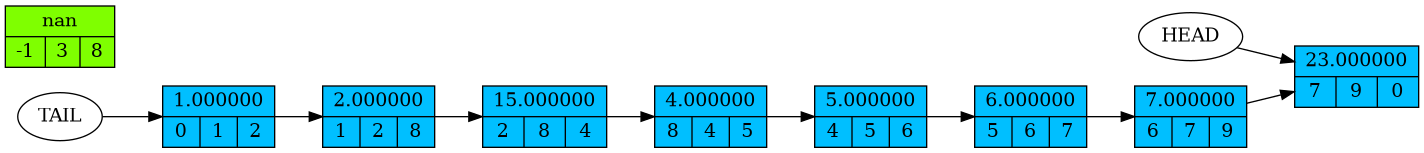
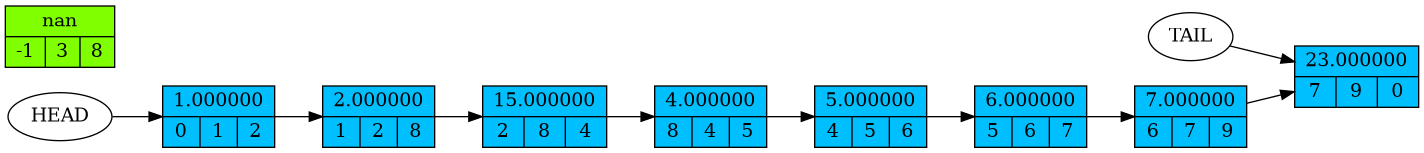
add circle

diff --git a/CPU/commands.h b/CPU/commands.h
@@ -116,6 +116,7 @@
 
 #define DO_OUT\
         printf("%lf\n", POPPED);\
+        fflush(stdout);\
         STACK_EMPTY_CHECK\
 
 
@@ -125,6 +126,20 @@
 #define DO_HLT\
         printf("Program hult on rip %d\n", RIP);\
         return 0;
+
+//-------------------------------------------------------------------------
+
+#define PIXEL(x, y) CPU_RAM[y*YSIZE + x]
+
+#define DO_SHOW                              \
+        for (int y = 0; y < YSIZE; y+=2){     \
+            for (int x = 0; x < XSIZE; x++){ \
+                if (PIXEL(x,y) == 1) printf("\x1b[8;44m@\x1b[0m");\
+                else printf("\x1b[8;40mE\x1b[0m");\
+            }                                \
+            printf("\n");                    \
+        }
+
 
 //#########################################################################
 //------------------DISASSEMBLER-------------------------------------------
@@ -188,44 +203,45 @@
 //--------------------------------COMMANDS---------------------------------
 
 
-DEF_CMD(PUSH, 0x01, 5, 1, PUSH_ARGUMENTS_CHECK(nline, arg_value), DEFAULT_ASSEMBLING_INSTRUCTION, DEFAULT_DISASSEMBLING_INSTRUCTION)
-DEF_CMD(POP, 0x02, 5, 0, POP_ARGUMENTS_CHECK(nline, arg_value), DEFAULT_ASSEMBLING_INSTRUCTION, DEFAULT_DISASSEMBLING_INSTRUCTION)
-DEF_CMD(JMP, 0x03, 1, 1, {}, JMP_ASSEMBLING_INSTRUCTION, JMP_DISASSEMBLING_INSTRUCTION)
-DEF_CMD(ADD, 0x04, 0, 0, {}, {}, {})
-DEF_CMD(SUB, 0x05, 0, 0, {}, {}, {})
-DEF_CMD(MUL, 0x06, 0, 0, {}, {}, {})
-DEF_CMD(DIV, 0x07, 0, 0, {}, {}, {})
-DEF_CMD(SIN, 0x08, 0, 0, {}, {}, {})
-DEF_CMD(COS, 0x09, 0, 0, {}, {}, {})
-DEF_CMD(SQRT, 0x0A, 0, 0, {}, {}, {})
-DEF_CMD(NEG, 0x0B, 0, 0, {}, {}, {})
-DEF_CMD(OUT, 0x0C, 0, 0, {}, {}, {})
-DEF_CMD(IN, 0x0D, 0, 0, {}, {}, {})
-DEF_CMD(DUMP, 0x0E, 0, 0, {}, {}, {})
-DEF_CMD(HLT, 0x0F, 0, 0, {}, {}, {})
-DEF_CMD(JA, 0x10, 1, 1, {}, JMP_ASSEMBLING_INSTRUCTION, JMP_DISASSEMBLING_INSTRUCTION)
-DEF_CMD(JAE, 0x11, 1, 1, {}, JMP_ASSEMBLING_INSTRUCTION, JMP_DISASSEMBLING_INSTRUCTION)
-DEF_CMD(JB, 0x12, 1, 1, {}, JMP_ASSEMBLING_INSTRUCTION, JMP_DISASSEMBLING_INSTRUCTION)
-DEF_CMD(JBE, 0x13, 1, 1, {}, JMP_ASSEMBLING_INSTRUCTION, JMP_DISASSEMBLING_INSTRUCTION)
-DEF_CMD(JE, 0x14, 1, 1, {}, JMP_ASSEMBLING_INSTRUCTION, JMP_DISASSEMBLING_INSTRUCTION)
-DEF_CMD(JNE, 0x15, 1, 1, {}, JMP_ASSEMBLING_INSTRUCTION, JMP_DISASSEMBLING_INSTRUCTION)
-DEF_CMD(CALL, 0x16, 1, 1, {}, JMP_ASSEMBLING_INSTRUCTION, JMP_DISASSEMBLING_INSTRUCTION)
-DEF_CMD(RETURN, 0x17, 0, 0, {}, {}, {})
+DEF_CMD (PUSH,   0x01, 5, 1, PUSH_ARGUMENTS_CHECK (nline, arg_value), DEFAULT_ASSEMBLING_INSTRUCTION, DEFAULT_DISASSEMBLING_INSTRUCTION)
+DEF_CMD (POP,    0x02, 5, 0, POP_ARGUMENTS_CHECK  (nline, arg_value), DEFAULT_ASSEMBLING_INSTRUCTION, DEFAULT_DISASSEMBLING_INSTRUCTION)
+DEF_CMD (JMP,    0x03, 1, 1, {},                                      JMP_ASSEMBLING_INSTRUCTION,     JMP_DISASSEMBLING_INSTRUCTION)
+DEF_CMD (ADD,    0x04, 0, 0, {}, {}, {})
+DEF_CMD (SUB,    0x05, 0, 0, {}, {}, {})
+DEF_CMD (MUL,    0x06, 0, 0, {}, {}, {})
+DEF_CMD (DIV,    0x07, 0, 0, {}, {}, {})
+DEF_CMD (SIN,    0x08, 0, 0, {}, {}, {})
+DEF_CMD (COS,    0x09, 0, 0, {}, {}, {})
+DEF_CMD (SQRT,   0x0A, 0, 0, {}, {}, {})
+DEF_CMD (NEG,    0x0B, 0, 0, {}, {}, {})
+DEF_CMD (OUT,    0x0C, 0, 0, {}, {}, {})
+DEF_CMD (IN,     0x0D, 0, 0, {}, {}, {})
+DEF_CMD (DUMP,   0x0E, 0, 0, {}, {}, {})
+DEF_CMD (HLT,    0x0F, 0, 0, {}, {}, {})
+DEF_CMD (JA,     0x10, 1, 1, {}, JMP_ASSEMBLING_INSTRUCTION, JMP_DISASSEMBLING_INSTRUCTION)
+DEF_CMD (JAE,    0x11, 1, 1, {}, JMP_ASSEMBLING_INSTRUCTION, JMP_DISASSEMBLING_INSTRUCTION)
+DEF_CMD (JB,     0x12, 1, 1, {}, JMP_ASSEMBLING_INSTRUCTION, JMP_DISASSEMBLING_INSTRUCTION)
+DEF_CMD (JBE,    0x13, 1, 1, {}, JMP_ASSEMBLING_INSTRUCTION, JMP_DISASSEMBLING_INSTRUCTION)
+DEF_CMD (JE,     0x14, 1, 1, {}, JMP_ASSEMBLING_INSTRUCTION, JMP_DISASSEMBLING_INSTRUCTION)
+DEF_CMD (JNE,    0x15, 1, 1, {}, JMP_ASSEMBLING_INSTRUCTION, JMP_DISASSEMBLING_INSTRUCTION)
+DEF_CMD (CALL,   0x16, 1, 1, {}, JMP_ASSEMBLING_INSTRUCTION, JMP_DISASSEMBLING_INSTRUCTION)
+DEF_CMD (RETURN, 0x17, 0, 0, {}, {}, {})
+DEF_CMD (SHOW,   0x18, 0, 0, {}, {}, {})
 
 //#########################################################################
 //-----------------------REGISTERS----------------------------------------
 
 #define REGISTER_ASSEMBLING(keyword_code)                            \
-    if (((*(command_start_ptr) & 0x80) >> 7) == narg){ \
+    if (((*(command_start_ptr) & 0x80) >> 7) == narg){               \
         **(rip_ptr) = keyword_code;                                  \
-        *(command_start_ptr) += 0x40;             \
-        *(rip_ptr) = *((char**)(rip_ptr)) + 1 ;                          \
-    }                                                  \
-    else {\
-        *status_ptr = 0;\
+        *(command_start_ptr) += 0x40;                                \
+        *(rip_ptr) = *((char**)(rip_ptr)) + 1 ;                      \
+    }                                                                \
+    else {                                                           \
+        *status_ptr = 0;                                             \
         printf("Syntax error: wrong register position on line %d\n", nline + 1);\
-    }\
-    *(arg_value_ptr)+=3;
+    }                                                                \
+    *(arg_value_ptr) += 3;
 
 REGISTER(rax, 'a', REGISTER_ASSEMBLING('a'))
 REGISTER(rbx, 'b', REGISTER_ASSEMBLING('b'))

diff --git a/CPU/CPU.cpp b/CPU/CPU.cpp
@@ -52,11 +52,19 @@ int Execute(CPU* thou){
     FILE* fp = fopen("CPU.log", "w");
     assert(fp);
 
-    #define RAM_BIT (buffer[RIP] & 0x80)
-    #define REGISTER_BIT (buffer[RIP] & 0x40)
-    #define CONST_BIT (buffer[RIP] & 0x20)
+    const char RAM_BIT_MASK      = 0b10000000;
+    const char REGISTER_BIT_MASK = 0b01000000;
+    const char CONST_BIT_MASK    = 0b00100000;
+    const char COMMAND_NUM_MASK = 0b00011111;
 
-    #define SSYMBOL(name, ASSEMBLING_INSTRUCTION) ;
+    #define BIT_BY_MASK(mask) (buffer[RIP] & mask)
+    
+    #define RAM_BIT      (buffer[RIP] & RAM_BIT_MASK)
+    #define REGISTER_BIT (buffer[RIP] & REGISTER_BIT_MASK)
+    #define CONST_BIT    (buffer[RIP] & CONST_BIT_MASK)
+    #define COMMAND_NUM  (buffer[RIP] & COMMAND_NUM_MASK)
+
+    #define SSYMBOL( name,       ASSEMBLING_INSTRUCTION) ;
     #define REGISTER(name, code, ASSEMBLING_INSTRUCTION) ;
 
     #define DEF_CMD(name, num, max_arg, min_arg, arg_check, AIN, DIN)                        \
@@ -74,7 +82,7 @@ int Execute(CPU* thou){
             break;
 
     while(RIP < FILESIZE){
-        switch(buffer[RIP] & 0x1f){
+        switch(COMMAND_NUM){
         #include "commands.h"
         default: printf("\n Error: code corrupted, unknown command code: %X\n", buffer[RIP] & 0xff);
                  return 0;
@@ -122,8 +130,7 @@ int Init(CPU* thou){
     }
     
     CALLSTACK = callstack;
-
-    double* RAM = (double*)calloc(RAM_SIZE,1);
+    double* RAM = (double*)calloc(RAM_SIZE,sizeof(double));
 
     if (!RAM){
         printf("Initialisation failed: cannot create RAM\n");

diff --git a/CPU/config.h b/CPU/config.h
@@ -1,8 +1,11 @@
 const int VERSION_BASE = 0;
 const int VERSION_SUB = 1;
-const long int MINIMAL_FILESIZE = 1024;
+const long int MAXIMAL_FILESIZE = 1024;
 const short int COMMAND_LENGTH = 16;
 const char* SIGNATURE = "MYASS";
+
+const int XSIZE = 200;
+const int YSIZE = 200;
 
 typedef char LABEL_TYPE;
 const int MAX_LABELS = 256;
@@ -15,4 +18,4 @@ const int ARGUMENTS_NUMBER_BYTES = 2;
 const int ARGUMENT_TYPE_MASK = 0xC0;
 
 const int INITIAL_STACK_CAPACITY = 10;
-const int RAM_SIZE = 1024;
+const int RAM_SIZE = 2 << 16;

diff --git a/CPU/assembler.cpp b/CPU/assembler.cpp
@@ -31,7 +31,7 @@ int main(int argc, char* argv[]){
         return -5;
     }
     
-    char* begin = (char*)calloc(1, MINIMAL_FILESIZE);
+    char* begin = (char*)calloc(1, MAXIMAL_FILESIZE);
     char* end = nullptr;
     Label* labels = (Label*)calloc(MAX_LABELS, sizeof(Label));
     int nlabels = 0;

diff --git a/List/List.cpp b/List/List.cpp
@@ -86,7 +86,7 @@ int InsertAfter(List* thou, int pos, double value){
     elements[new_pos].status = BUSY;
     size++;
     ValidateList(thou);
-    if (elements[new_pos].next == 0) head = new_pos;
+    if (elements[new_pos].next == 0) tail = new_pos;
     return new_pos; 
 }
 
